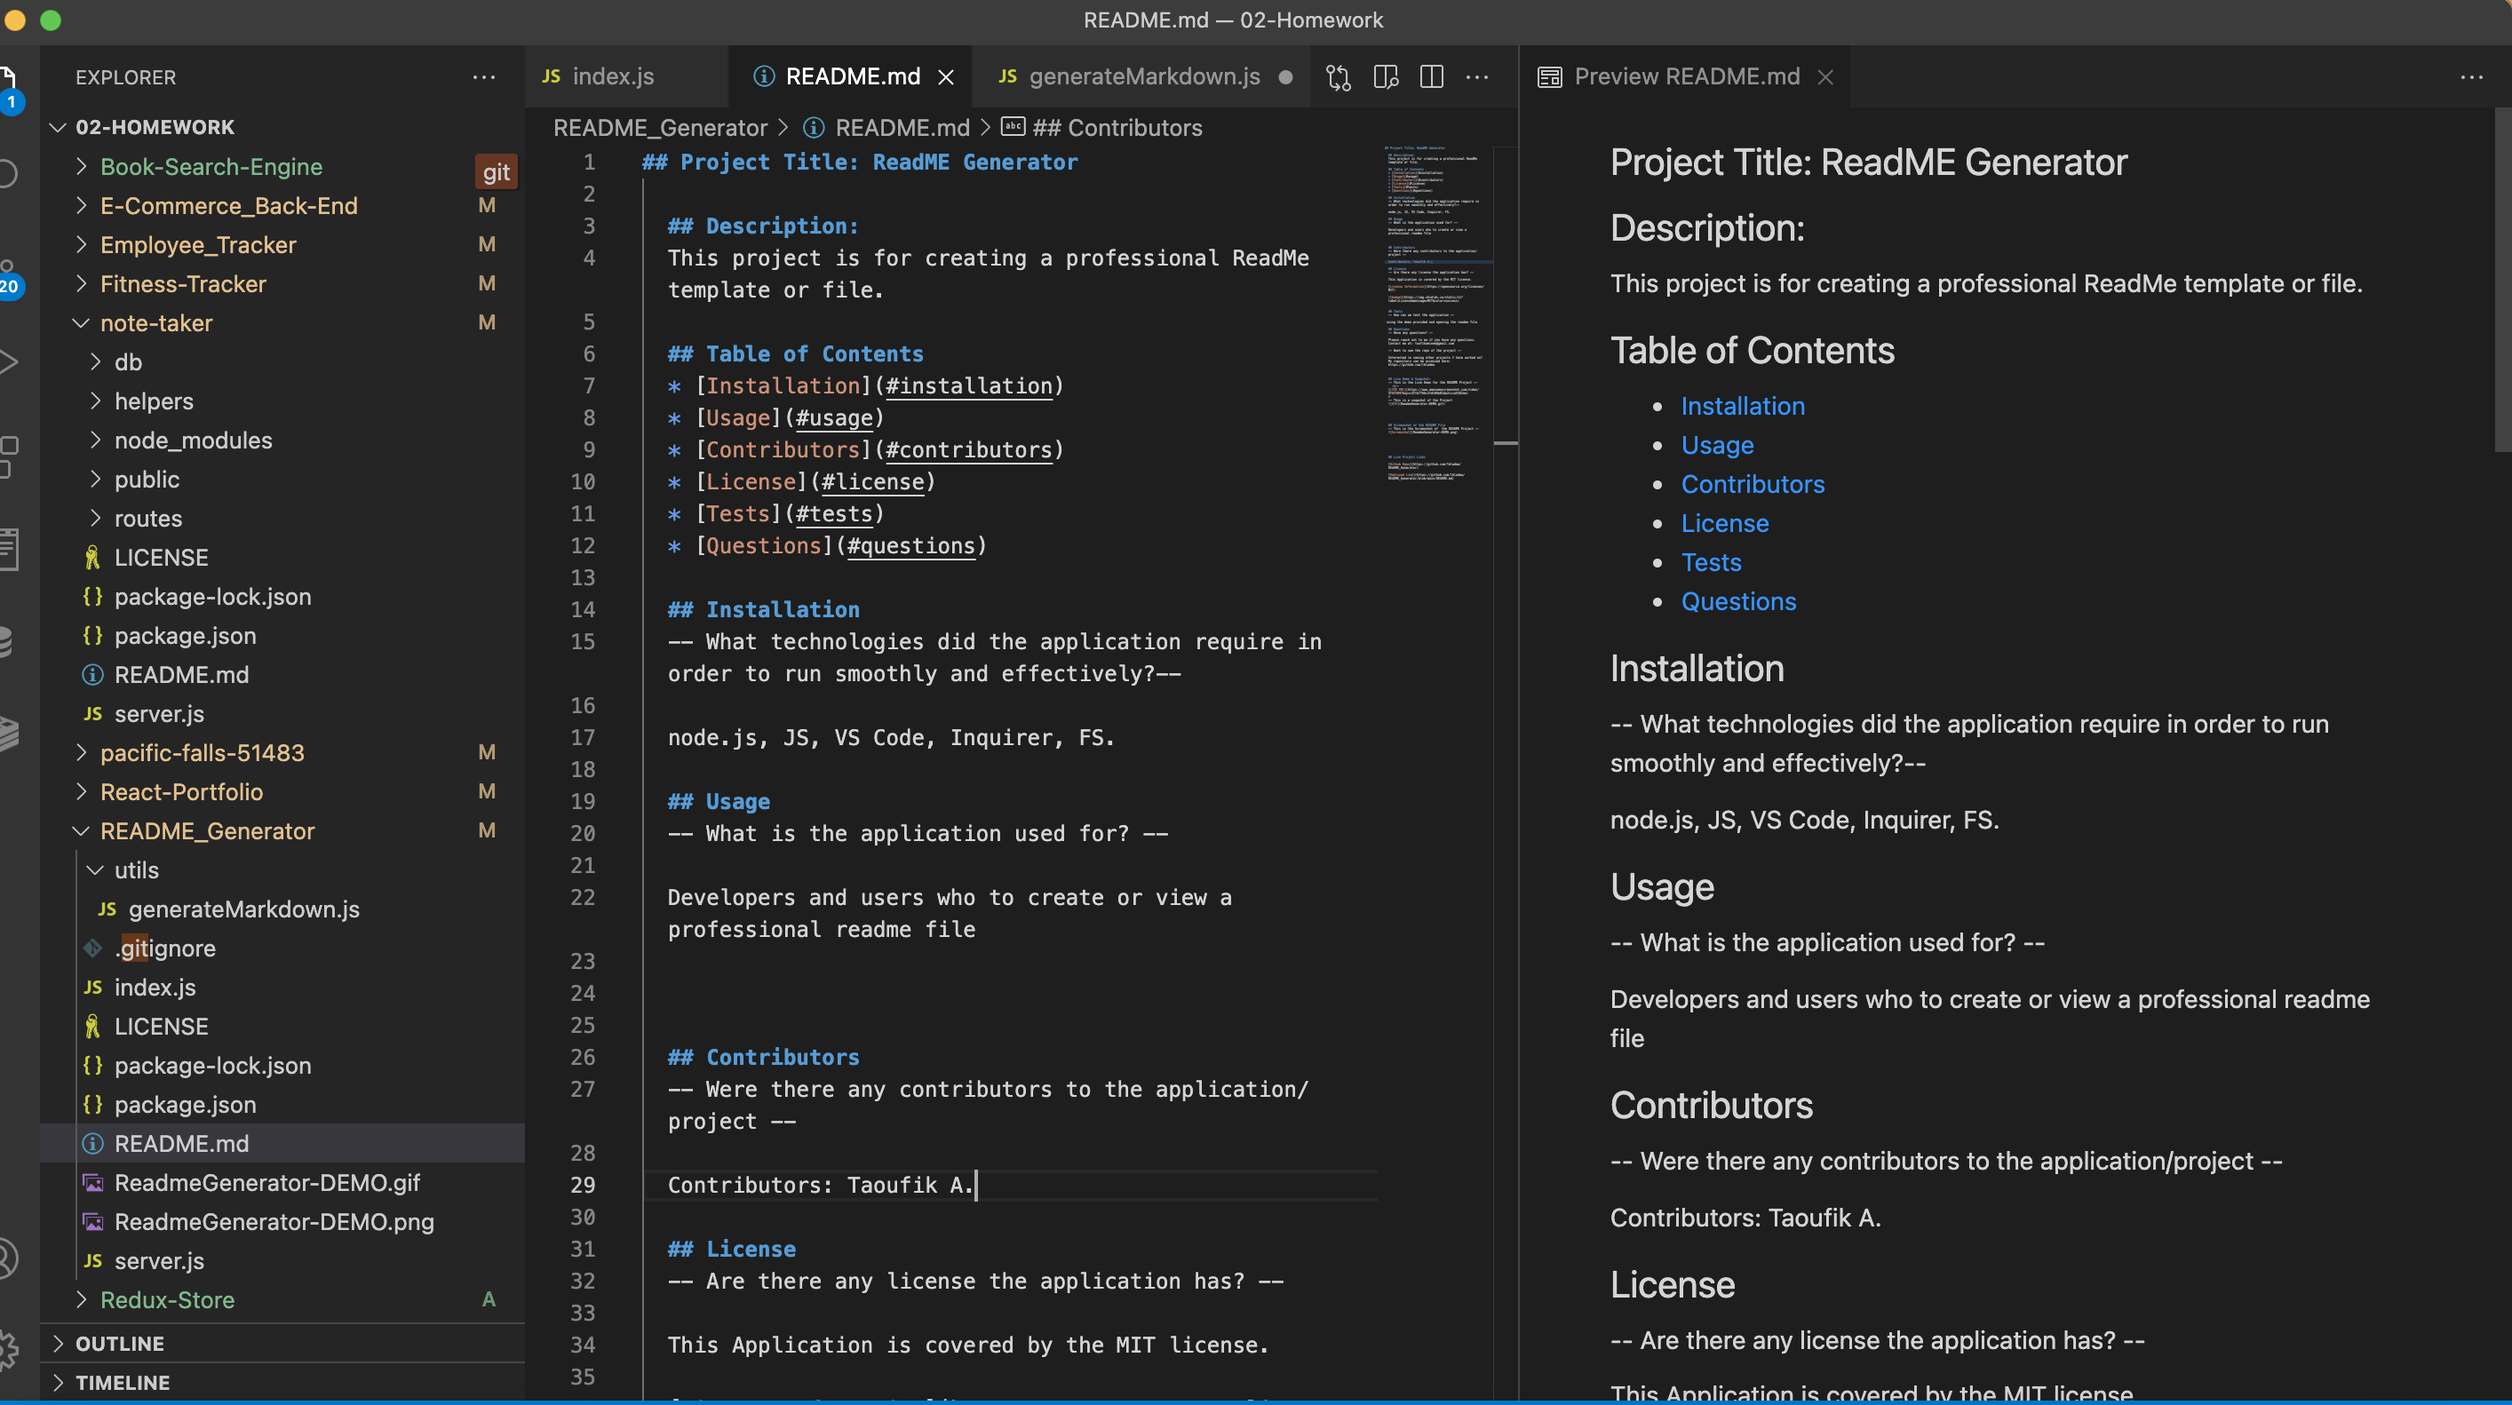
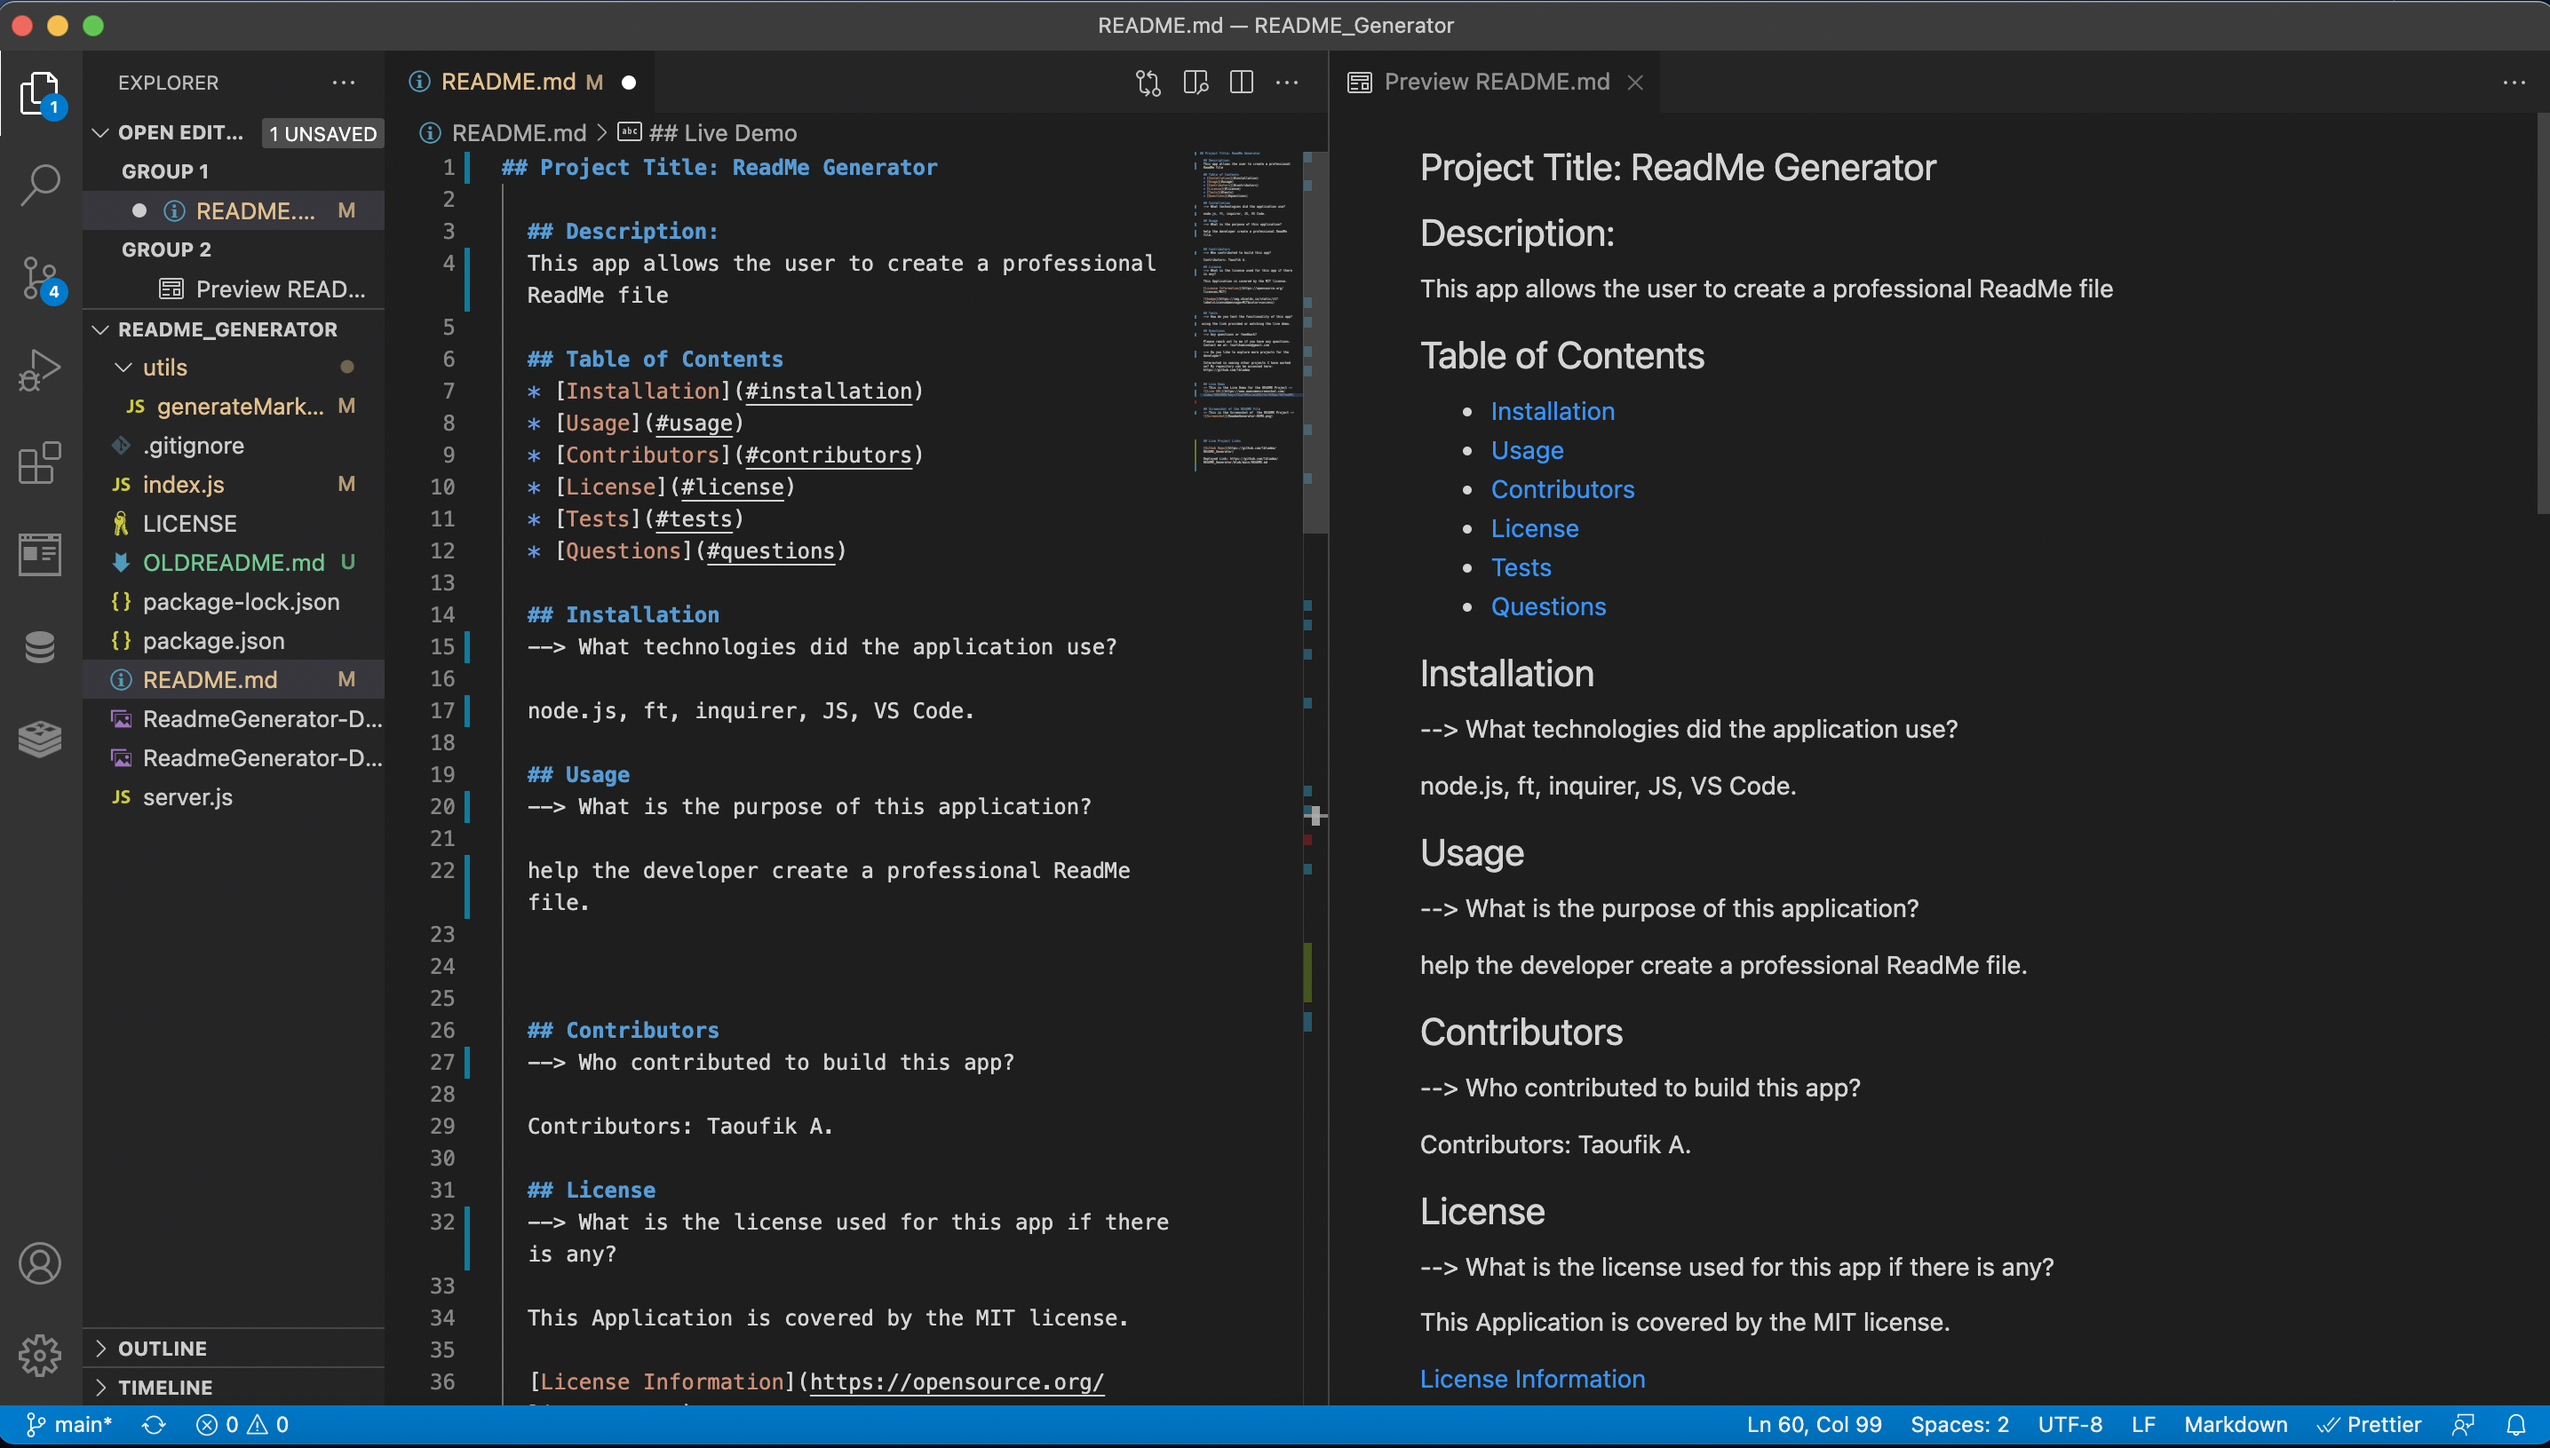
Updated the demo link

diff --git a/utils/generateMarkdown.js b/utils/generateMarkdown.js
@@ -1,6 +1,6 @@
 // Assignment: ReadME Generator project 
 // Author: Taoufik Ammi
-// Date: 10/23 /2021 
+// Date: 10/27/2021 
 // Course: UNC Coding BootCamp
 
 
@@ -32,24 +32,24 @@ const generateMarkdown = (data) => {
   * [Questions](#questions)
   
   ## Installation
-  -- What technologies did the application require in order to run smoothly and effectively?--
+  --> What technologies did the application use? 
 
   ${data.dependencies}
 
   ## Usage
-  -- What is the application used for? --
+  --> What is the purpose of this application? 
 
   ${data.use}
 
 
 
   ## Contributors
-  -- Were there any contributors to the application/project --
+  --> Who contributed to build this app?
 
   Contributors: ${data.contributor}
 
   ## License
-  -- Are there any license the application has? --
+  --> What is the license used for this app if there is any?
 
   This Application is covered by the ${data.license} license.
 
@@ -59,16 +59,16 @@ const generateMarkdown = (data) => {
 
 
   ## Tests
-  -- How can we test the application --
+  --> How do you test the functionality of this app?
 
  ${data.test}
 
   ## Questions
-  -- Have any questions? --
+  --> Any questions or feedback?
 
   Please reach out to me if you have any questions. Contact me at: ${data.email}
 
-  -- Want to see the repo of the project --
+  --> Do you like to explore more projects for the developer?
 
   Interested in seeing other projects I have worked on? My repository can be accessed here: 
   https://github.com/${data.github}
@@ -77,7 +77,7 @@ const generateMarkdown = (data) => {
 
   ## Live Demo
   -- This is the Live Demo for the README Project --
-  ![Live URL](https://www.awesomescreenshot.com/video/5747294?key=c3ffe7766c2fd109e01da2ccca5382ee)
+  ![Live URL](https://www.awesomescreenshot.com/video/5803086?key=741af992c1e1691f4cf838dc7697ea09)
 
 
 

diff --git a/index.js b/index.js
@@ -1,6 +1,6 @@
 // Assignment: ReadME Generator project 
 // Author: Taoufik Ammi
-// Date: 10/23 /2021 
+// Date: 10/27/2021 
 // Course: UNC Coding BootCamp
 
 
@@ -17,45 +17,46 @@ const questions = [
         // Title of the project
         name: 'title',
         type: 'input',
-        message: 'Whats the Title of the project?'
+        message: 'What is the title of the project?'
     },
     {
         // Description of Project
         name: 'description',
         type: 'input',
-        message: 'Please provide a description of your project?'
+        message: 'Provide a description of your project?'
     },
     {
         // Technologies used.
         name: 'dependencies',
         type: 'input',
-        message: 'What technologies did the application require in order to run smoothly and effectively?'
+        message: 'What technologies did the application use?'
     },
 
     {
         // What is it for?
         name: 'use',
         type: 'input',
-        message: 'What is the application used for? '
+        message: 'What is the purpose of this application? '
     },
     {
         // Who contributed
         name: 'contributor',
         type: 'input',
-        message: 'Were there any contributors to the application/project'
+        message: 'Who contributed to build this app?'
     },
     
     {
         // Any license
         name: "license",
         type: 'input',
-        message: 'Are there any license the application has?'
+        message: 'What is the license used for this app if there is any? '
+
     },
 
     {
         name: 'test',
         type: 'input',
-        message: "How can we test the application ?"
+        message: "How do you test the functionality of this app? "
     },
     {
         // Github

diff --git a/README.md b/README.md
@@ -1,7 +1,7 @@
-## Project Title: ReadME Generator
+## Project Title: ReadMe Generator
 
   ## Description:
-  This project is for creating a professional ReadMe template or file.
+  This app allows the user to create a professional ReadMe file
 
   ## Table of Contents
   * [Installation](#installation)
@@ -12,24 +12,24 @@
   * [Questions](#questions)
   
   ## Installation
-  -- What technologies did the application require in order to run smoothly and effectively?--
+  --> What technologies did the application use? 
 
-  node.js, JS, VS Code, Inquirer, FS.
+  node.js, ft, inquirer, JS, VS Code.
 
   ## Usage
-  -- What is the application used for? --
+  --> What is the purpose of this application? 
 
-  Developers and users who to create or view a professional readme file
+  help the developer create a professional ReadMe file.
 
 
 
   ## Contributors
-  -- Were there any contributors to the application/project --
+  --> Who contributed to build this app?
 
   Contributors: Taoufik A.
 
   ## License
-  -- Are there any license the application has? --
+  --> What is the license used for this app if there is any?
 
   This Application is covered by the MIT license.
 
@@ -39,41 +39,41 @@
 
 
   ## Tests
-  -- How can we test the application --
+  --> How do you test the functionality of this app?
 
- using the demo provided and opening the readme file
+ using the link provided or watching the live demo.
 
   ## Questions
-  -- Have any questions? --
+  --> Any questions or feedback?
 
   Please reach out to me if you have any questions. Contact me at: toufikaminew@gmail.com
 
-  -- Want to see the repo of the project --
+  --> Do you like to explore more projects for the developer?
 
   Interested in seeing other projects I have worked on? My repository can be accessed here: 
   https://github.com/lbladma
 
 
 
-  ## Live Demo & Snapshot: 
+  ## Live Demo
   -- This is the Live Demo for the README Project --
-    <br>
-  [LIVE URL](https://www.awesomescreenshot.com/video/5747294?key=c3ffe7766c2fd109e01da2ccca5382ee)
-  #
-  -- This is a snapshot of the Project
-  ![GIF](ReadmeGenerator-DEMO.gif)
+  [Live URL](https://www.awesomescreenshot.com/video/5803086?key=741af992c1e1691f4cf838dc7697ea09)
 
 
-
-#
 
   ## Screenshot of the README File
-  -- This is the Screenshot of  the README Project ---
+  -- This is the Screenshot of  the README Project --
   ![Screenshot](ReadmeGenerator-DEMO.png)
 
 
 
 
 
+
+  ## Live Project Links
+
+  [Github Repo](https://github.com/lbladma/README_Generator)
+
+  Deployed Link: https://github.com/lbladma/README_Generator/blob/main/README.md
 
   

diff --git a/OLDREADME.md b/OLDREADME.md
@@ -1,0 +1,79 @@
+## Project Title: ReadME Generator
+
+  ## Description:
+  This project is for creating a professional ReadMe template or file.
+
+  ## Table of Contents
+  * [Installation](#installation)
+  * [Usage](#usage)
+  * [Contributors](#contributors)
+  * [License](#license)
+  * [Tests](#tests)
+  * [Questions](#questions)
+  
+  ## Installation
+  -- What technologies did the application require in order to run smoothly and effectively?--
+
+  node.js, JS, VS Code, Inquirer, FS.
+
+  ## Usage
+  -- What is the application used for? --
+
+  Developers and users who to create or view a professional readme file
+
+
+
+  ## Contributors
+  -- Were there any contributors to the application/project --
+
+  Contributors: Taoufik A.
+
+  ## License
+  -- Are there any license the application has? --
+
+  This Application is covered by the MIT license.
+
+  [License Information](https://opensource.org/licenses/MIT)
+
+  ![badge](https://img.shields.io/static/v1?label=License&message=MIT&color=success)
+
+
+  ## Tests
+  -- How can we test the application --
+
+ using the demo provided and opening the readme file
+
+  ## Questions
+  -- Have any questions? --
+
+  Please reach out to me if you have any questions. Contact me at: toufikaminew@gmail.com
+
+  -- Want to see the repo of the project --
+
+  Interested in seeing other projects I have worked on? My repository can be accessed here: 
+  https://github.com/lbladma
+
+
+
+  ## Live Demo & Snapshot: 
+  -- This is the Live Demo for the README Project --
+    <br>
+  [LIVE URL](https://www.awesomescreenshot.com/video/5747294?key=c3ffe7766c2fd109e01da2ccca5382ee)
+  #
+  -- This is a snapshot of the Project
+  ![GIF](ReadmeGenerator-DEMO.gif)
+
+
+
+#
+
+  ## Screenshot of the README File
+  -- This is the Screenshot of  the README Project ---
+  ![Screenshot](ReadmeGenerator-DEMO.png)
+
+
+
+
+
+
+  
